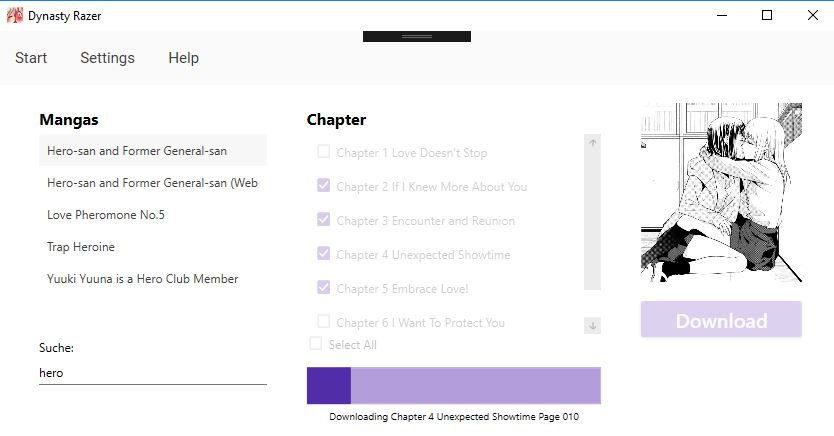
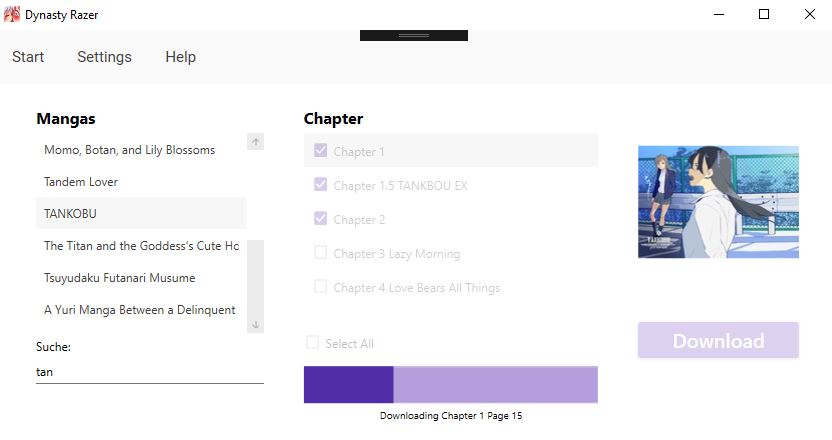
added serie pv image

diff --git a/DynastyRazer/Views/MainView.xaml b/DynastyRazer/Views/MainView.xaml
@@ -97,7 +97,7 @@
 
         <Border Grid.Column="9" Grid.ColumnSpan="3" Padding="20">
             <StackPanel>
-                <Image Source="./../img/StartpageLogo.JPG" Margin="0 0 0 20"/>
+                <Image Source="{Binding SerieImageUrl}" Margin="0 0 0 20" Height="200"/>
                 <Button x:Name="DownloadButton" 
                         Command="{Binding DownloadClickCommand}"
                         CommandParameter="{Binding RelativeSource={RelativeSource Self}}"

diff --git a/DynastyRazer/ViewModels/MainViewModel.cs b/DynastyRazer/ViewModels/MainViewModel.cs
@@ -26,6 +26,7 @@ namespace DynastyRazer.ViewModels
         private string _downloadStatusText;
         private int _pagesToDownloadCount;
         private int _pagesDownloadedCount;
+        private string _serieImageUrl;
 
         private ICommand _downloadClickCommand;
         private ICommand _chaptersSelectAllChangeCommand;
@@ -72,6 +73,12 @@ namespace DynastyRazer.ViewModels
             set { _downloadStatusText = value; NotifyPropertyChanged(); }
         }
 
+        public string SerieImageUrl
+        {
+            get => _serieImageUrl;
+            set { _serieImageUrl = value; NotifyPropertyChanged(); }
+        }
+
         public List<SerieListItem> FilteredSeries
         {
             get { return _filteredSeries; }
@@ -89,6 +96,7 @@ namespace DynastyRazer.ViewModels
 
                 foreach (ChapterListItem chapter in _serieDetails.Chapters)
                     chapter.IsSelected = ChaptersToDownload.Where(x => x.Url.Equals(chapter.Url)).Count() > 0;
+                SerieImageUrl = _serieDetails.Image;
                 NotifyPropertyChanged();
             }
         }

diff --git a/DynastyRazer/MangaMapper/Dynasty-Scans/DynastyMapper.cs b/DynastyRazer/MangaMapper/Dynasty-Scans/DynastyMapper.cs
@@ -26,7 +26,8 @@ namespace DynastyRazer.MangaMapper.Dynasty_Scans
             {
                 Name = internSerieDetails.Name,
                 Chapters = chapters,
-                Url = mangaUrl
+                Url = mangaUrl,
+                Image = $"http://dynasty-scans.com{internSerieDetails.Cover}",
             };
 
             return serie;

diff --git a/DynastyRazer/MangaModels/Dynasty-Scans/DynastySerieDetails.cs b/DynastyRazer/MangaModels/Dynasty-Scans/DynastySerieDetails.cs
@@ -8,6 +8,7 @@ namespace DynastyRazer.MangaModels.Dynasty_Scans
 {
     public class DynastySerieDetails
     {
+        public string Cover { get; set; }
         public string Name { get; set; }
         public string Type { get; set; }
         public List<DynastyChapter> Taggings { get; set; }

diff --git a/DynastyRazer/Models/SerieDetails.cs b/DynastyRazer/Models/SerieDetails.cs
@@ -9,6 +9,7 @@ namespace DynastyRazer.Models
 {
     public class SerieDetails
     {
+        public string Image { get; set; }
         public string Name { get; set; }
         public string Type { get; set; }
         public string Url { get; set; }
